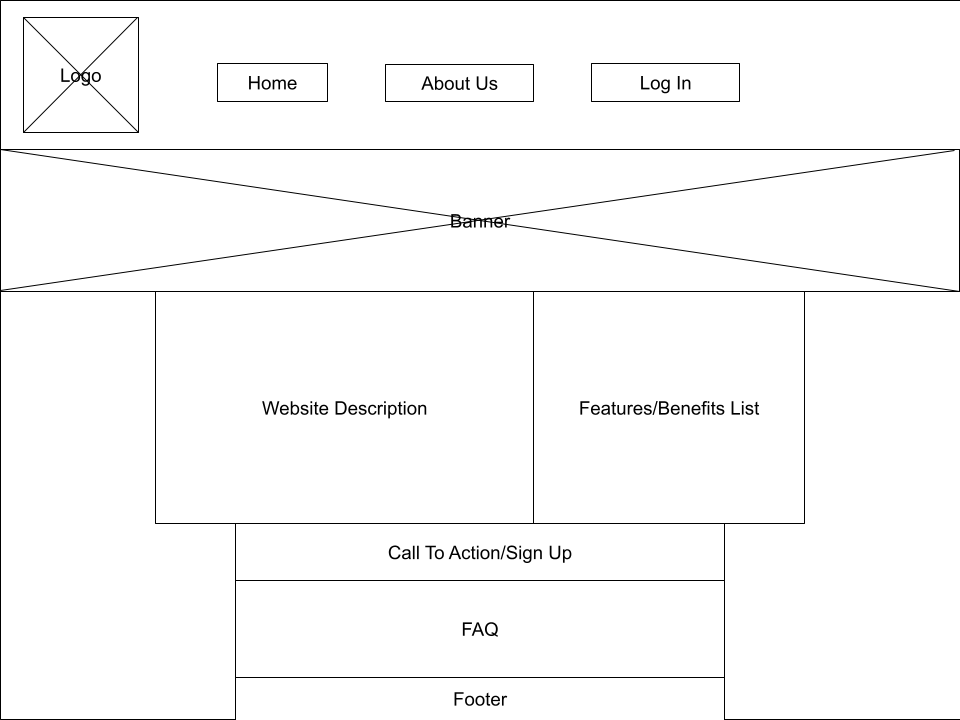
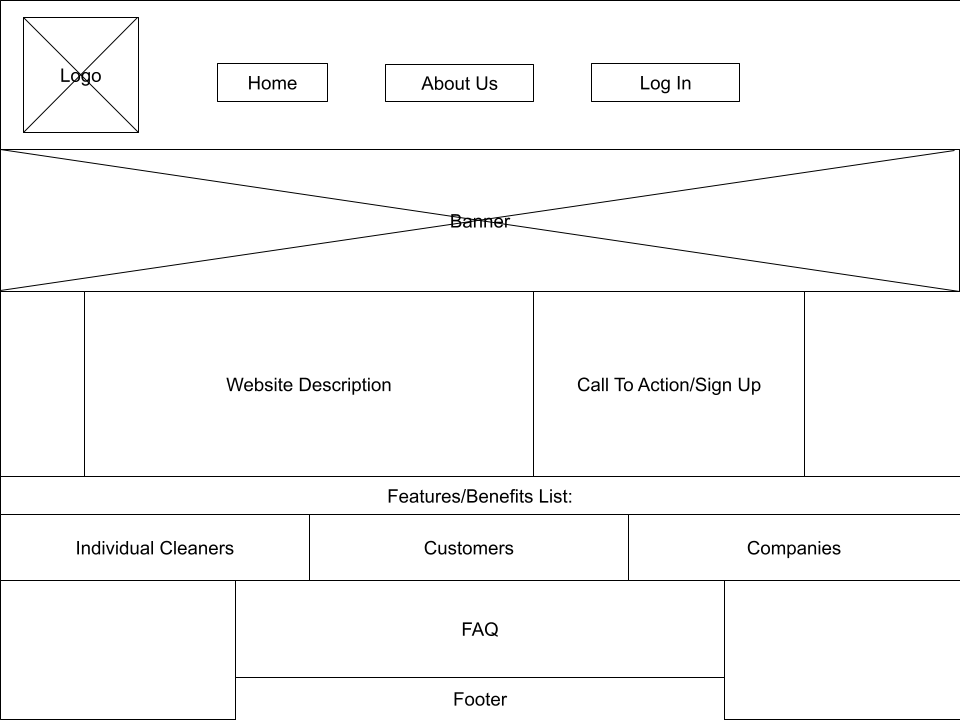
Update user story 45 description. Update UI diagram.

diff --git a/cp3407-project-v2024-main/user_stories/user_story_45_landing_page.md b/cp3407-project-v2024-main/user_stories/user_story_45_landing_page.md
@@ -1,27 +1,29 @@
-Create more md files like this one as needed. Place them into the same folder 
-as this [user_stories folder](./)
-
 # User story title: Landing Page
 
-Keep any other version here as well, e.g. Display current deals, Let user to click on "show-current-deals".
 
-## Priority: 10 (e.g. latest for iteration-1)
-Essential to have a functional & accessible landing page, so that users have the opportunity to navigate to the correct page in an accessible & intuitive way
+## Priority: 10 (Latest for Iteration-2)
+Must-Have
+Justification:Essential to have a functional & accessible landing page, so that users of all types have the opportunity 
+to navigate to the correct page in an accessible & intuitive way.
 
-## Estimation: e.g. 2 days
-Any notes on estimation go here. Keep your planning poker game numbers. For example
-* Aaron: x
+## Estimation:
+* Aaron: 2 days
 * Seth: 1 day
 * Harrison: 0.5 days
 
 ## Assumptions (if any):
 
-## Description: e.g. The web page will show current deals to Orion's orbits users
+## Description:
 
 Description-v1: e.g. Landing page where users will be directed upon entering the webpage
 
-## Tasks, see chapter 4.
+Description-v2: As a future user, I want a landing page which gives me a simple overview of the product, and relevant
+directions on where to sign up so that I can begin accessing the services I require either as a customer, individual 
+cleaner or company.
 
+## Tasks:
+- Create index/landing page - Estimation: 1 day
+- Create about us page - Estimation: 0.5 days
 
 ## UI Design:
 ![User Story 45 Wireframe](user_story_wireframes/User_Story_45_Wireframe.png)
